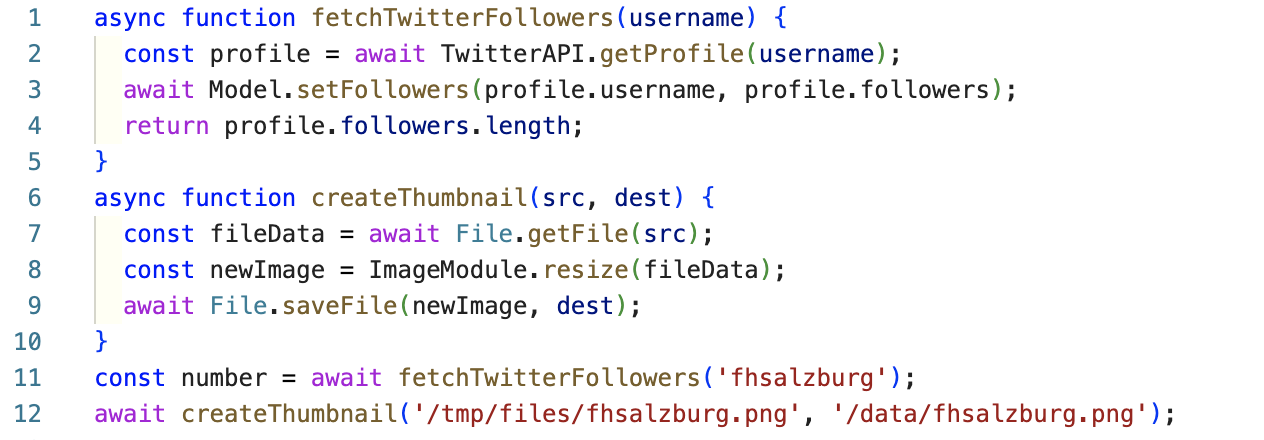
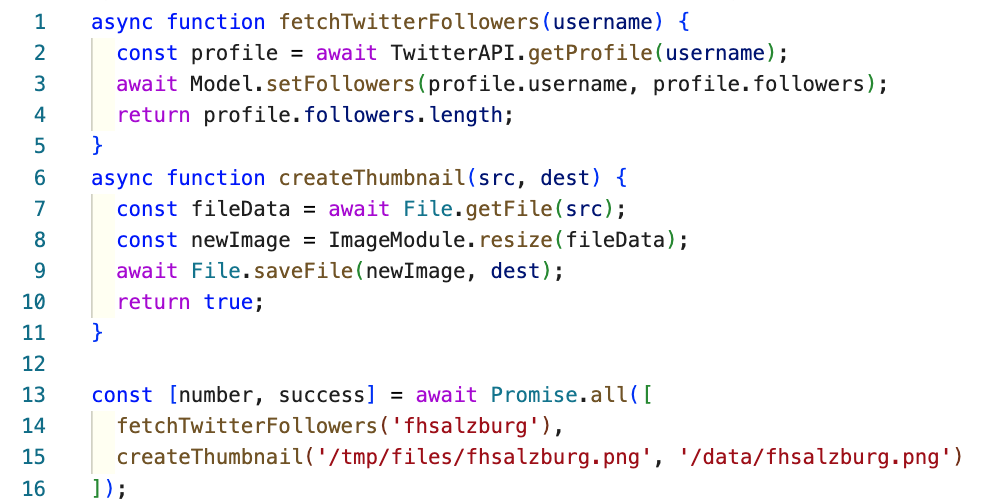
fix example code and link to gist

diff --git a/source/node_basics.md b/source/node_basics.md
@@ -25,7 +25,7 @@ In 2010 npm was added as a package manager for
 Javascript Libraries.
 
 
-## How big is node.js?
+### How big is node.js?
 
 
 ![](images/what-is-node.svg)
@@ -39,34 +39,7 @@ the node projects consist of:
 - libuv: 100.000 lines of C code
 
 
-## Hello World
-
-You write your program in Javascript:
-
-```javascript
-console.log("Hello World");
-```
-
-and run it with the `node` command:
-
-```shell
-$ node hello.js
-Hello World
-```
-
-You can also use node interactively:
-
-```shell
-$ node
-> console.log("Hello World");
-Hello World
-undefined
-> 1+2
-3
-> [CTRL]-[D]
-```
-
-## Node Version Manager
+### Node Version Manager
 
 Node Versions change fast. The node version manager (nvm) makes
 it easy to switch between versions:
@@ -82,7 +55,34 @@ An alternative would be to use [rtx](https://github.com/jdxcode/rtx), which
 can also handle other languages like ruby, php, python.
 
 
-## Hello Web
+### Hello Node
+
+You write your program in Javascript:
+
+```javascript
+console.log("Hello Node");
+```
+
+and run it with the `node` command:
+
+```shell
+$ node hello.js
+Hello Node
+```
+
+You can also use node interactively:
+
+```shell
+$ node
+> console.log("Hello Node");
+Hello Node
+undefined
+> 1+2
+3
+> [CTRL]-[D]
+```
+
+### Hello Web
 
 To create a very simple Webserver we can use the package `http`:
 
@@ -133,6 +133,8 @@ import * as config from './config/index.js`;
 
 `npm` was the first package manager for node.js.  Today
 there are many alternatives, from `yarn` to `pnpm`.
+
+
 
 ## The javascript Event Loop
 
@@ -251,11 +253,13 @@ loaded, the program will continue with assigning the data to the constant `conte
 
 ### Complex Example
 
-![](images/node-example-code.png)
+![](images/node-example-code@2x.png)
+
+[source](https://gitlab.mediacube.at/-/snippets/66)
 
 ![](images/node-example-diagram.png)
 
-## IO-bound vs. CPU-bound
+### IO-bound vs. CPU-bound
 
 Describes two kinds of performance bottlenecks
 
